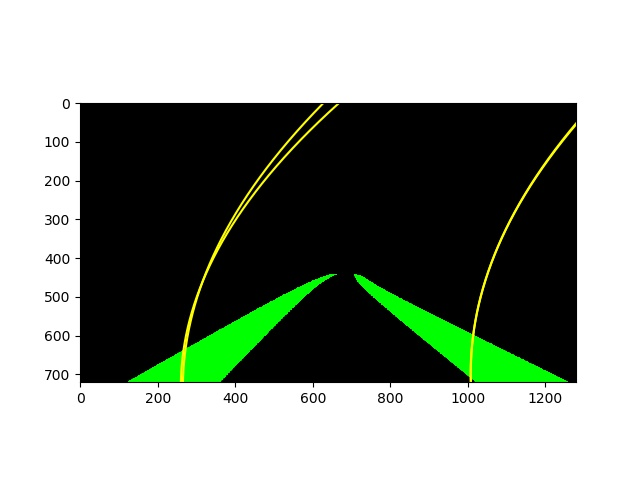
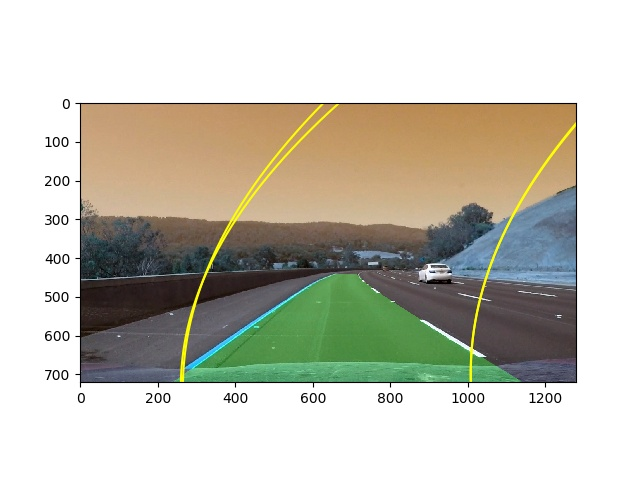
Lane region is being drawn on output images. Need to figure out how to remove pre-unwarp yellow lines from final image.

diff --git a/code/Pipeline.py b/code/Pipeline.py
@@ -90,6 +90,7 @@ def pipeline(img, s_thresh=(170, 255), sx_thresh=(15, 100)):
     # dst = np.float32([[700,400],[700,700],[400,700],[500,400]])
     # Given src and dst points, calculate the perspective transform matrix
     M = cv2.getPerspectiveTransform(src, dst)
+    Minv = cv2.getPerspectiveTransform(dst, src)
     # Warp the image using OpenCV warpPerspective()
     warped = cv2.warpPerspective(combined_binary, M, img_size)
 
@@ -99,11 +100,24 @@ def pipeline(img, s_thresh=(170, 255), sx_thresh=(15, 100)):
     # Run image through the pipeline
     # Note that in your project, you'll also want to feed in the previous fits
     result1, left_fit, right_fit = fit_polynomial(warped)
-    result2 = search_around_poly(warped, left_fit, right_fit)
+    result2, left_fitx, right_fitx, ploty = search_around_poly(warped, left_fit, right_fit)
 
-    M_inv = cv2.getPerspectiveTransform(dst, src)
-    # Warp the image using OpenCV warpPerspective()
-    unwarped = cv2.warpPerspective(result2, M_inv, img_size)
+    # Create an image to draw the lines on
+    warp_zero = np.zeros_like(warped).astype(np.uint8)
+    color_warp = np.dstack((warp_zero, warp_zero, warp_zero))
 
-    return unwarped
+    # Recast the x and y points into usable format for cv2.fillPoly()
+    pts_left = np.array([np.transpose(np.vstack([left_fitx, ploty]))])
+    pts_right = np.array([np.flipud(np.transpose(np.vstack([right_fitx, ploty])))])
+    pts = np.hstack((pts_left, pts_right))
+
+    # Draw the lane onto the warped blank image
+    cv2.fillPoly(color_warp, np.int_([pts]), (0,255, 0))
+
+    # Warp the blank back to original image space using inverse perspective matrix (Minv)
+    newwarp = cv2.warpPerspective(color_warp, Minv, (result2.shape[1], result2.shape[0])) 
+    # Combine the result with the original image
+    result = cv2.addWeighted(img, 1, newwarp, 0.3, 0)
+
+    return result
 

diff --git a/code/main.py b/code/main.py
@@ -18,8 +18,9 @@ image = cv2.imread("../test_images/test3.jpg")
 
 undist, mtx, dist = cal_undistort(image, objpoints, imgpoints)
 
-final_img = pipeline(image)
+result = pipeline(image)
 
-plt.imshow(final_img)
+plt.imshow(result)
+
 plt.savefig("../output_images/final_img.jpg")
 

diff --git a/code/prev_poly.py b/code/prev_poly.py
@@ -75,5 +75,5 @@ def search_around_poly(binary_warped, left_fit, right_fit):
     plt.plot(right_fitx, ploty, color='yellow')
     ## End visualization steps ##
     
-    return result
+    return result, left_fitx, right_fitx, ploty
 
